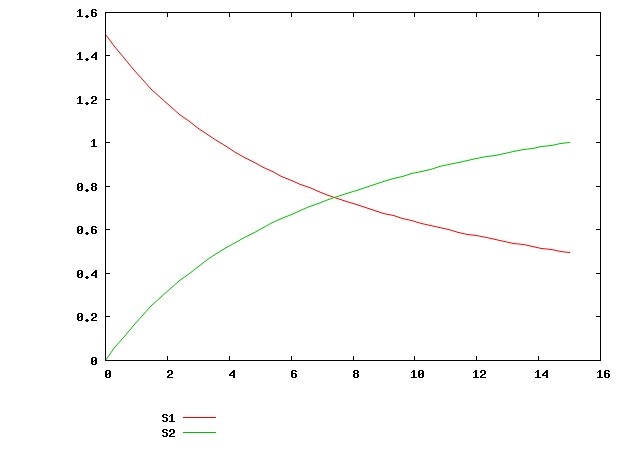
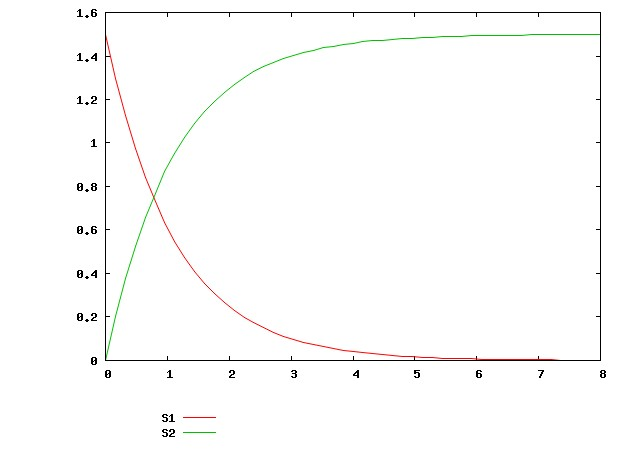
Tracker issue #2172466 these models assigned value to a compartment using a species; which is cyclical and not valid SBML

diff --git a/cases/semantic/00311/00311-model.m b/cases/semantic/00311/00311-model.m
@@ -3,23 +3,25 @@
 category:      Test
 synopsis:      Basic single forward reaction with two species in a compartment
                whose volume is varying.
-componentTags: Compartment, Species, Reaction, Parameter, AssignmentRule 
-testTags:      InitialAmount, NonConstantCompartment
+componentTags: Compartment, Species, Reaction, Parameter, AssignmentRule, RateRule 
+testTags:      InitialAmount, NonConstantCompartment, NonConstantParameter
 testType:      TimeCourse
 levels:        1.2, 2.1, 2.2, 2.3
 generatedBy:   Numeric
 
 The model contains one varying compartment called "compartment".  There are two
-species called S1 and S2 and two parameters called k1 and p1.  The model
+species called S1 and S2 and three parameters called k1, p1 and p2.  The model
 contains one reaction defined as:
 
 [{width:30em,margin-left:5em}|  *Reaction*  |  *Rate*  |
 | S1 -> S2 | $k1 * S1 * compartment$  |]
 
-The model contains one rule which assigns value to compartment:
+The model contains two rules. The assignmentRule assigns value to compartment
+and the rateRule determines the rate at which p2 is varying:
 
 [{width:30em,margin-left:5em}|  *Type*  |  *Variable*  |  *Formula*  |
- | Assignment | compartment | $p1 * S1$  |]
+ | Assignment | compartment | $p1 * p2$  |
+ | Rate       |     p2      | $0.1       |]
 
 In this case, the initial value declared for compartment "compartment" is
 inconsistent with that calculated by the assignmentRule; the calculated
@@ -32,7 +34,8 @@ The initial conditions are as follows:
 |Initial amount of S1                |$          1.5$ |mole                      |
 |Initial amount of S2                |$            0$ |mole                      |
 |Value of parameter k1               |$          0.9$ |second^-1^ |
-|Value of parameter p1               |$          0.1$ |litre^2^ mole^-1^ |
+|Value of parameter p1               |$          0.1$ |litre mole^-1^ |
+|Value of parameter p2               |$          1.5$ |mole second^-1^ |
 |Volume of compartment "compartment" |$            1$ |litre                     |]
 
 The species values are given as amounts of substance to make it easier to
@@ -49,7 +52,9 @@ addSpecies[ S1, initialAmount -> 1.5 ];
 addSpecies[ S2, initialAmount -> 0 ];
 addParameter[ k1, value -> 0.9 ];
 addParameter[ p1, value -> 0.1 ];
-addRule[ type->AssignmentRule, variable -> compartment, math -> p1 * S1];
+addParameter[ p2, value-> 1.5, constant -> False];
+addRule[ type->AssignmentRule, variable -> compartment, math -> p1 * p2];
+addRule[ type->RateRule, variable -> p2, math -> 0.1];
 addReaction[ S1 -> S2, reversible -> False,
 	     kineticLaw -> k1 * S1 * compartment ];
 
